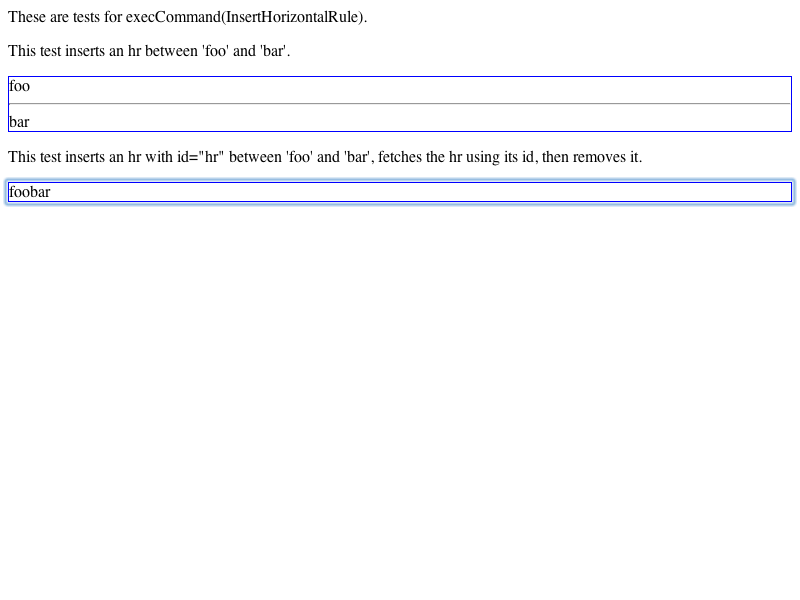
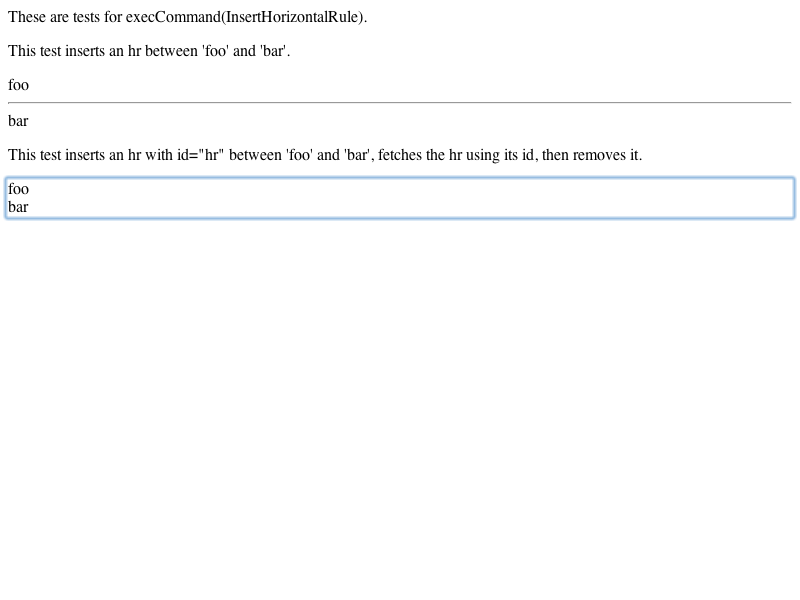
LayoutTests:
Reviewed by thatcher, levi
        
        Inserting an <hr> into <div>foo^bar</div> now produces 
        <div>foo</div><hr><div>bar</div>, instead of <div>foo<hr>bar</div>, 
        which means that removing an inserted <hr> programmatically from 
        javascript produces a different visual result than before (the 
        new result is arguably more correct):
        * editing/execCommand/insertHorizontalRule.html:
        * editing/execCommand/insertHorizontalRule-expected.checksum:
        * editing/execCommand/insertHorizontalRule-expected.png:
        * editing/execCommand/insertHorizontalRule-expected.txt:
        
        Equivalent render trees or changes in the editing delegate
        notifications that reflect the fact that we are doing an end
        merge more often:
        * editing/pasteboard/paste-text-001-expected.txt:
        * editing/pasteboard/paste-text-at-tabspan-001-expected.txt:
        * editing/pasteboard/paste-text-at-tabspan-002-expected.txt:
        * editing/pasteboard/paste-text-at-tabspan-003-expected.txt:
        * editing/pasteboard/smart-paste-003-expected.txt:
        * editing/pasteboard/smart-paste-004-expected.txt:
        * editing/pasteboard/smart-paste-005-expected.txt:
        * editing/pasteboard/smart-paste-006-expected.txt:
        * editing/pasteboard/smart-paste-007-expected.txt:
        * editing/style/smoosh-styles-001-expected.txt:
        * editing/style/smoosh-styles-002-expected.txt:

WebCore:
[…]

Changed region(s): [[0.0, 0.24, 1.0, 0.39], [0.0, 0.12, 1.0, 0.21]]

diff --git a/editing/execCommand/insertHorizontalRule.html b/editing/execCommand/insertHorizontalRule.html
@@ -1,5 +1,3 @@
-<style>div { border: 1px solid blue; }</style>
-
 <p>These are tests for execCommand(InsertHorizontalRule).</p>
 
 <p>This test inserts an hr between 'foo' and 'bar'.</p>
